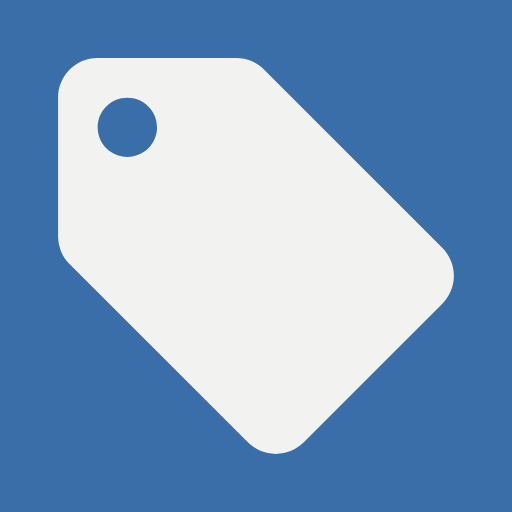
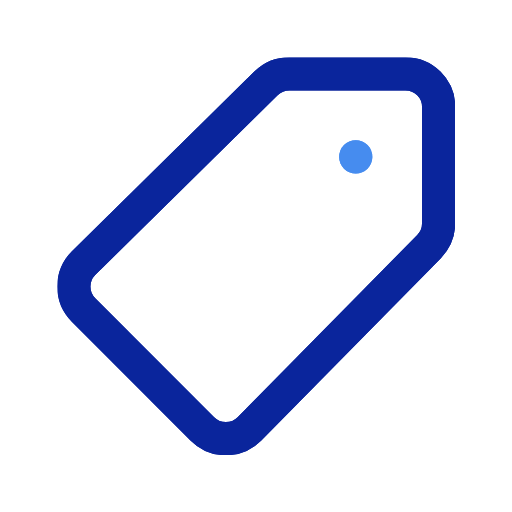
chore(brand): 새 태그 로고 아이콘·PWA·파비콘·테마색 적용
PNG 아이콘과 동일 컨셉의 SVG 파비콘, manifest·theme-color를 남색 톤에 맞춘다.

diff --git a/vite.config.ts b/vite.config.ts
@@ -8,13 +8,13 @@ export default defineConfig({
     react(),
     VitePWA({
       registerType: 'autoUpdate',
-      includeAssets: ['pwa-192.png', 'pwa-512.png'],
+      includeAssets: ['favicon.svg', 'pwa-192.png', 'pwa-512.png'],
       manifest: {
         name: '태그노트',
         short_name: '태그노트',
         description: '태그로 정리하는 메모',
-        theme_color: '#4a73d9',
-        background_color: '#4a73d9',
+        theme_color: '#1e3a5f',
+        background_color: '#ffffff',
         display: 'standalone',
         orientation: 'any',
         lang: 'ko',

diff --git a/index.html b/index.html
@@ -2,10 +2,11 @@
 <html lang="ko">
   <head>
     <meta charset="UTF-8" />
+    <link rel="icon" href="/favicon.svg" type="image/svg+xml" />
     <link rel="icon" type="image/png" href="/pwa-192.png" sizes="192x192" />
     <link rel="apple-touch-icon" href="/pwa-192.png" />
     <meta name="viewport" content="width=device-width, initial-scale=1.0" />
-    <meta name="theme-color" content="#4a73d9" />
+    <meta name="theme-color" content="#1e3a5f" />
     <meta name="description" content="태그로 정리하는 메모 — 태그노트" />
     <link
       rel="stylesheet"